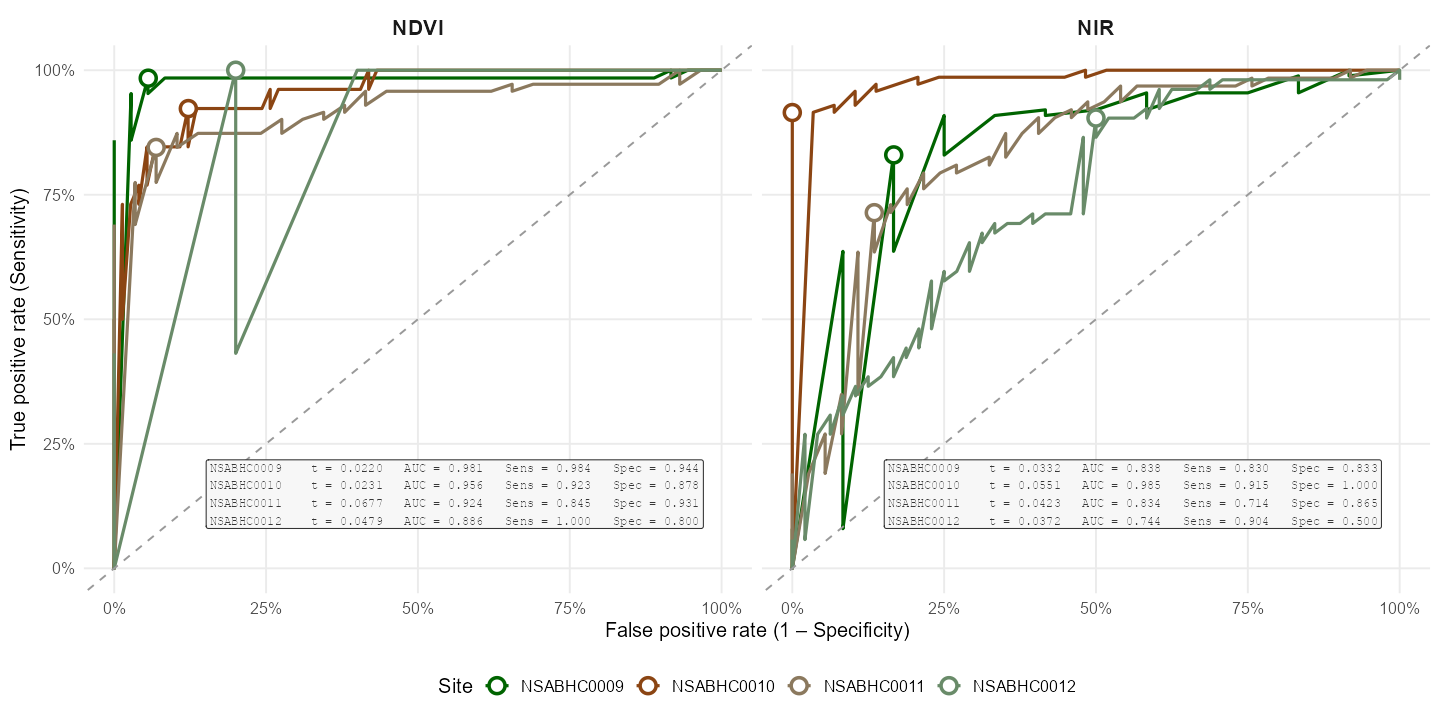
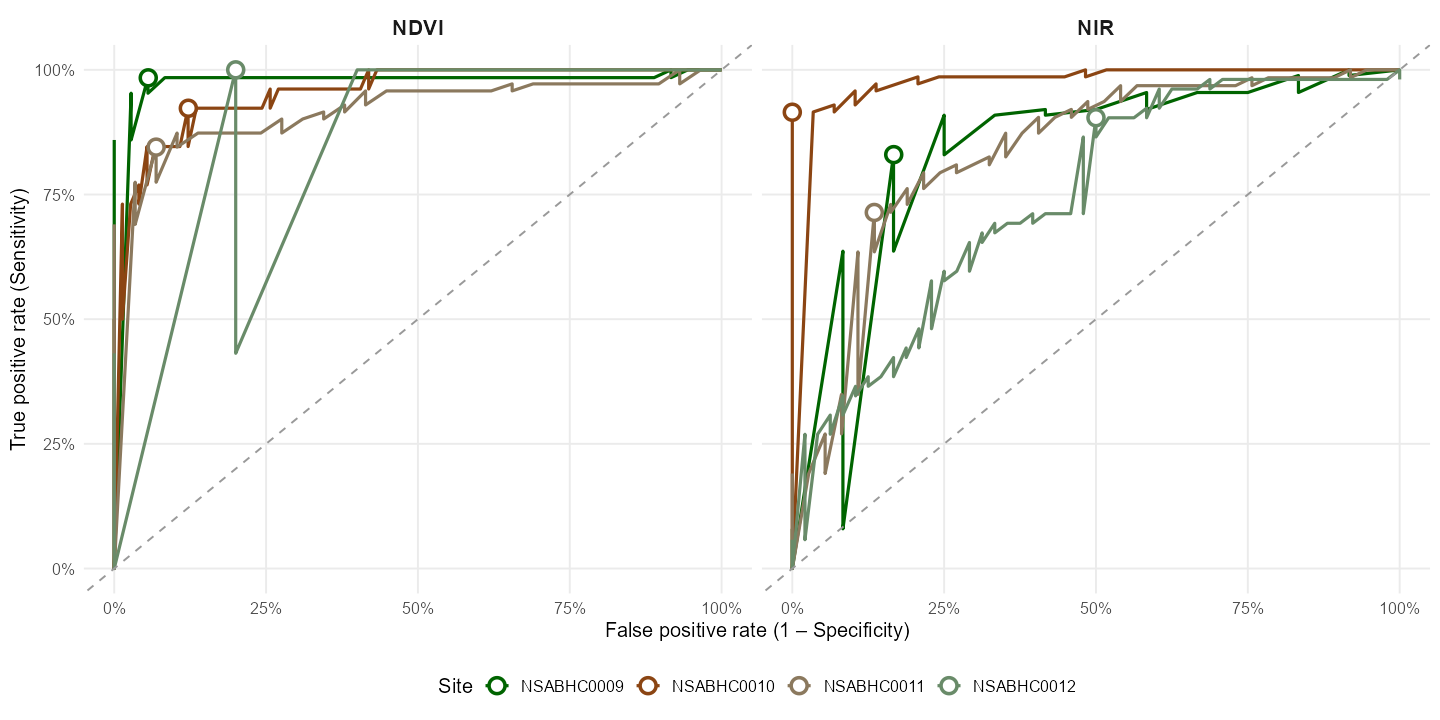
updating readME

diff --git a/preprocessing/README.md b/preprocessing/README.md
@@ -1,6 +1,6 @@
 # `preprocessing/`
 
-Scripts documenting how the raw drone outputs were turned into the masked multispectral rasters archived on Zenodo ([10.5281/zenodo.17089161](https://doi.org/10.5281/zenodo.17089161)). **Not part of the main `{targets}` pipeline** — these scripts run *upstream* of the analysis and only need to be re-run if the raw drone tiles or training data change.
+Documenting how the raw drone outputs were turned into the masked multispectral rasters archived on Zenodo ([10.5281/zenodo.17089161](https://doi.org/10.5281/zenodo.17089161)). **Not part of the main `{targets}` pipeline** — these scripts run *upstream* of the analysis and only need to be re-run if the raw drone tiles or training data change.
 
 Anyone reproducing the analysis downloads the masked rasters directly via `download_zenodo_rasters()` and skips this stage entirely — see the top-level [README](../README.md)'s *Reproducing the analysis* section.
 
@@ -42,14 +42,18 @@ No script is provided for this step — it cannot be run without the raw Pix4D o
 Rscript preprocessing/02_roc_thresholds.R
 ```
 
-Site-specific thresholds:
+Site-specific thresholds and ROC diagnostics at the Youden-optimal cut-point:
 
-| Site | NDVI | NIR |
-|---|---|---|
-| NSABHC0009 | 0.02198 | 0.03323 |
-| NSABHC0010 | 0.02310 | 0.05510 |
-| NSABHC0011 | 0.06775 | 0.04225 |
-| NSABHC0012 | 0.04794 | 0.03722 |
+| Site | Metric | Threshold | AUC | Sensitivity | Specificity |
+|---|---|---|---|---|---|
+| NSABHC0009 | NDVI | 0.02198 | 0.981 | 0.984 | 0.944 |
+| NSABHC0010 | NDVI | 0.02310 | 0.956 | 0.923 | 0.878 |
+| NSABHC0011 | NDVI | 0.06775 | 0.924 | 0.845 | 0.931 |
+| NSABHC0012 | NDVI | 0.04794 | 0.886 | 1.000 | 0.800 |
+| NSABHC0009 | NIR | 0.03323 | 0.838 | 0.830 | 0.833 |
+| NSABHC0010 | NIR | 0.05510 | 0.985 | 0.915 | 1.000 |
+| NSABHC0011 | NIR | 0.04225 | 0.834 | 0.714 | 0.865 |
+| NSABHC0012 | NIR | 0.03722 | 0.744 | 0.904 | 0.500 |
 
 ![ROC curves for NDVI and NIR thresholds across all four sites](roc_curves.png)
 